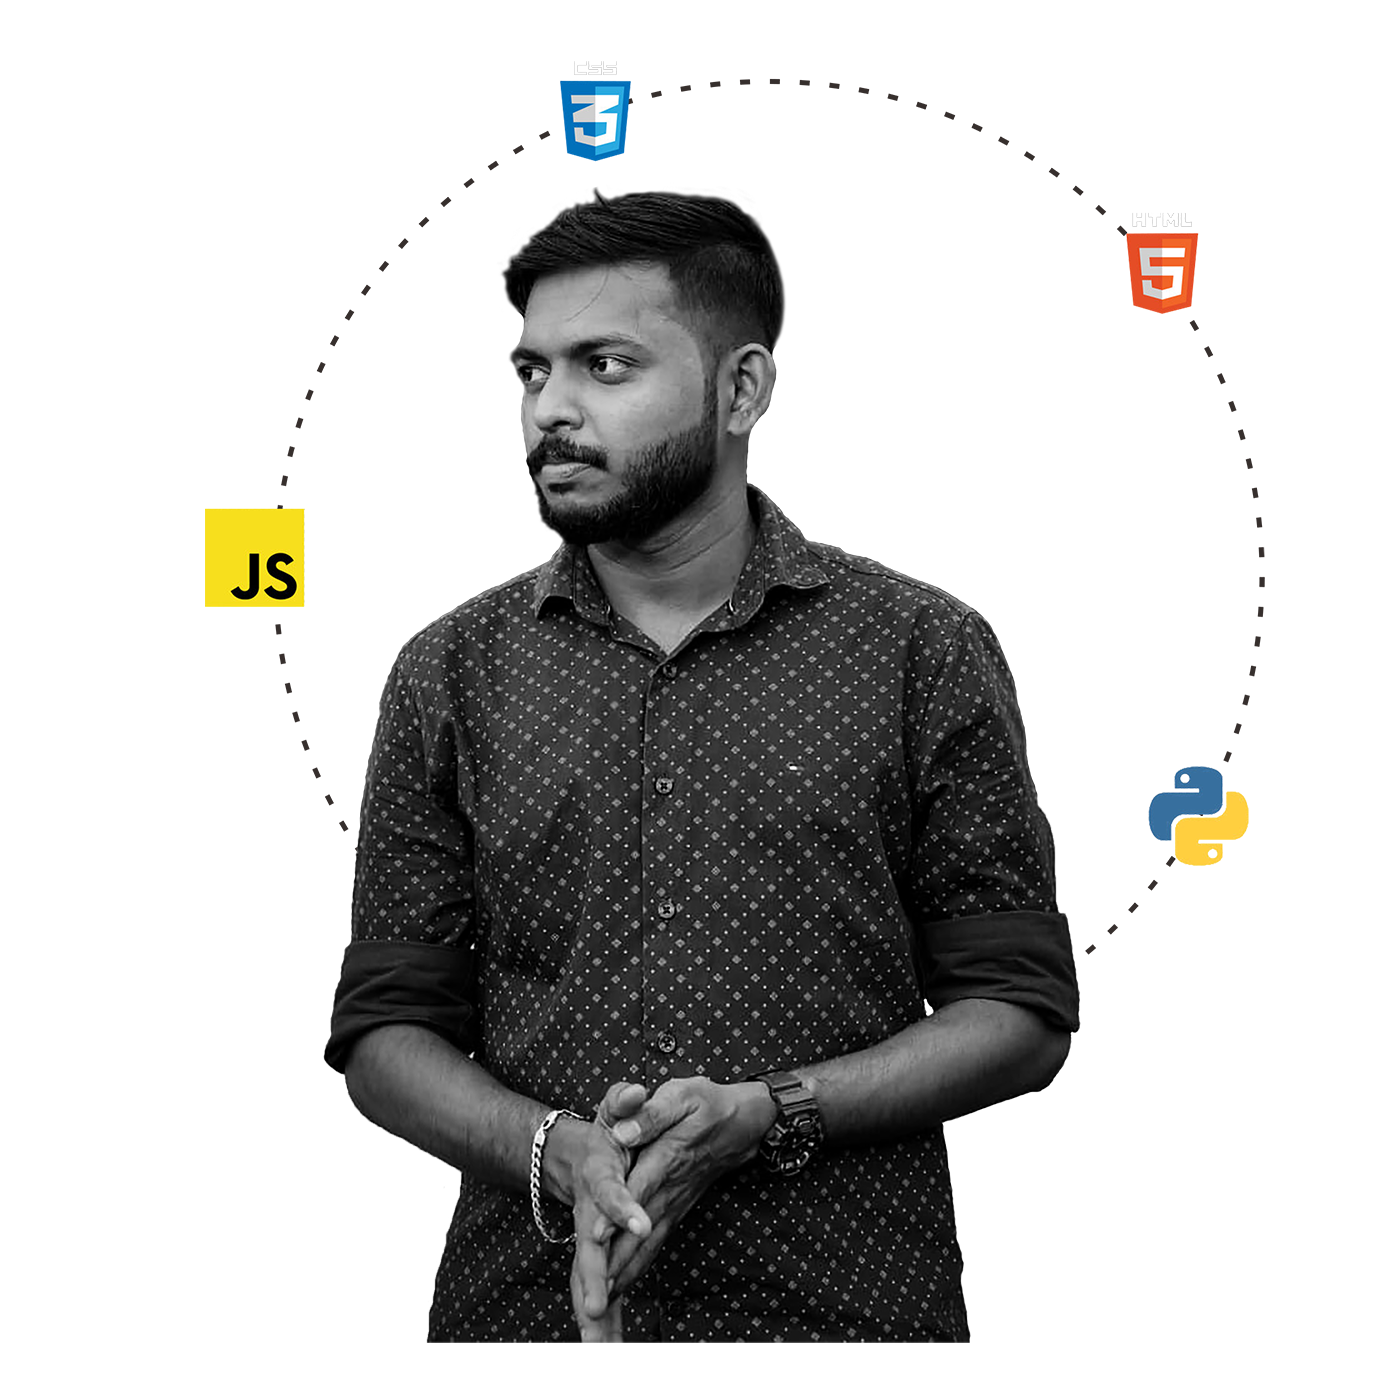
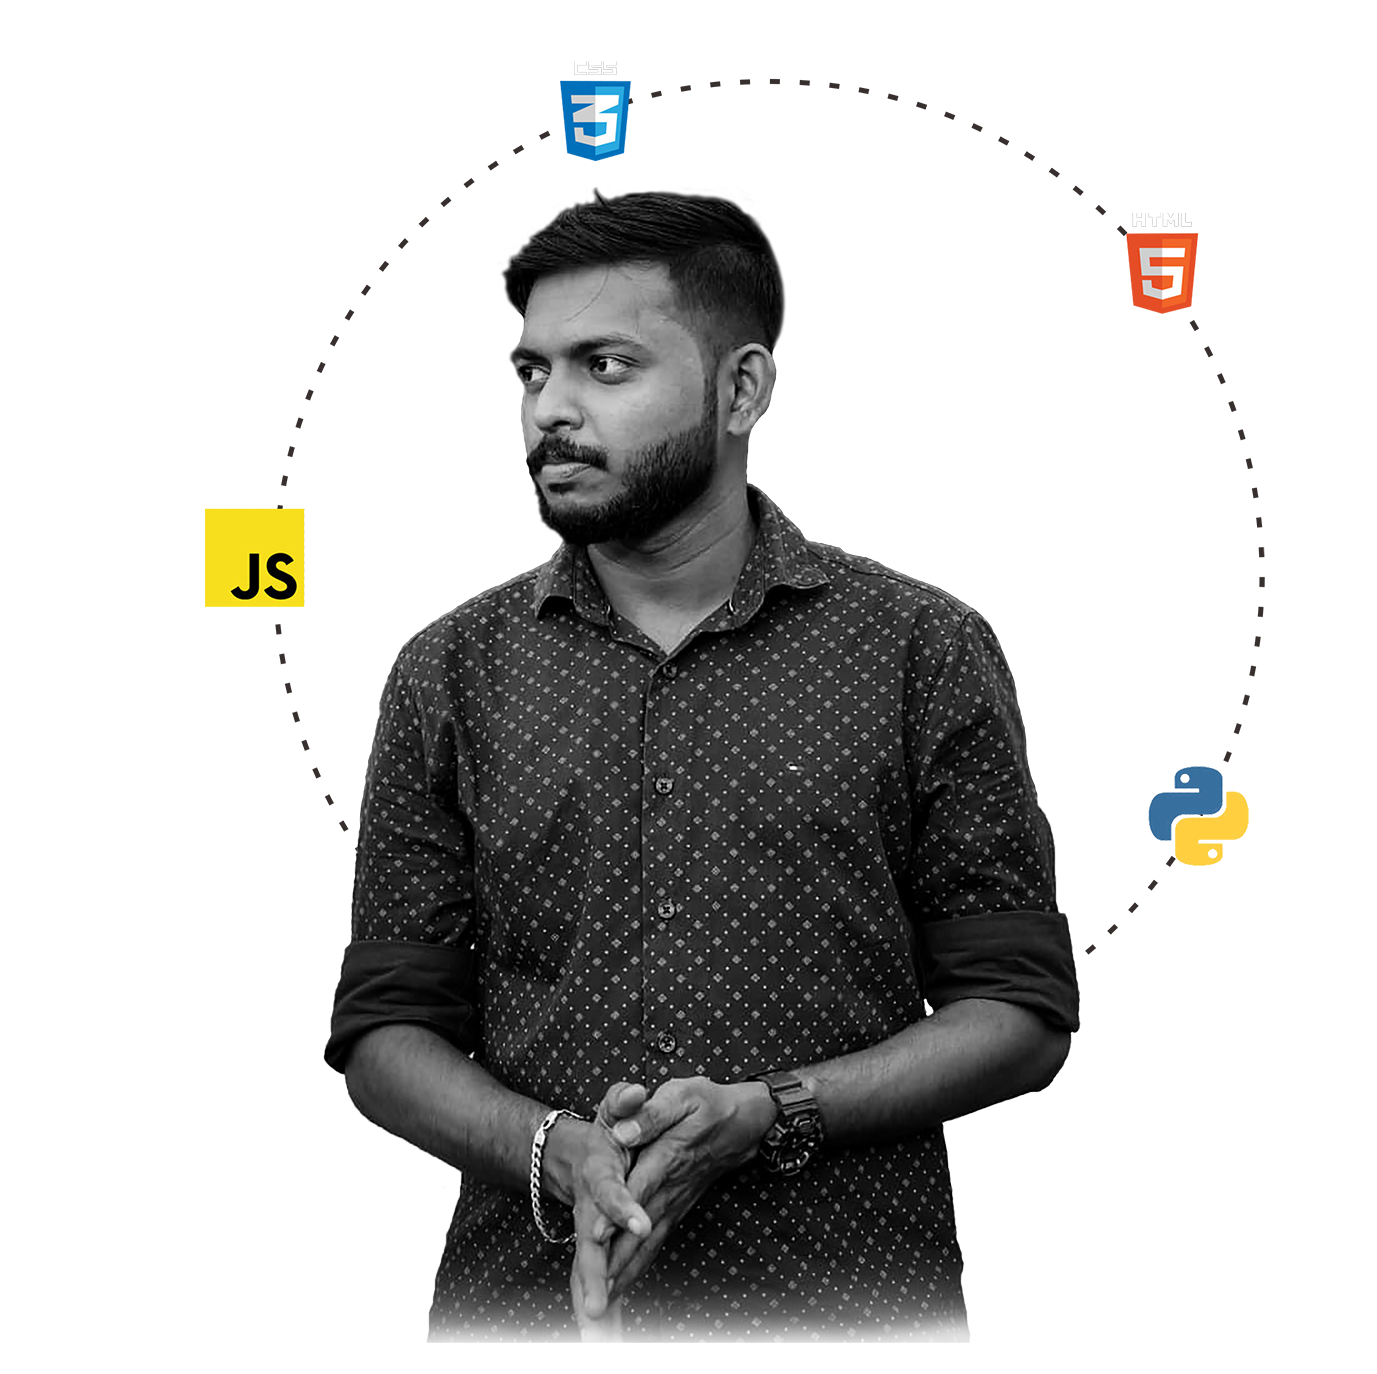
.

Changed region(s): [[0.3123, 0.917, 0.7182, 0.9782]]

diff --git a/index.html b/index.html
@@ -21,8 +21,8 @@
     <a class="nvname nav-link" href="#">ABHINAND KK</a>
     <div class="collapse navbar-collapse justify-content-end" id="navbarNav">
       <ul class="navbar-nav">
-        <li class="nav-item"><a class="nav-link" href="https://abhinand-devhub.github.io/portfolio/">Home</a></li>
-        <li class="nav-item"><a class="nav-link" href="#">Works</a></li>
+        <li class="nav-item"><a class="nav-link" href="#cont">Home</a></li>
+        <li class="nav-item"><a class="nav-link" href="#cards">Works</a></li>
         <li class="nav-item"><a class="nav-link" href="http://www.linkedin.com/in/abhinand-kk" target="_blank">About</a></li>
         <li class="nav-item"><a class="nav-link" href="https://mail.google.com/mail/?view=cm&fs=1&to=abhinandkk123@gmail.com" target="_blank">Contact</a></li>
       </ul>
@@ -54,7 +54,7 @@
   </div>
 
   <!-- section2 cards -->
-  <div class="container d-flex flex-wrap align-items-center justify-content-between">
+  <div class="container d-flex flex-wrap align-items-center justify-content-between" id="cards">
     <!-- project -->
     <div class="card mb-5" style="width: 350px;  background-color: rgba(0, 0, 0, 0.5);">
       <h3 class="card-title card-img-overlay">Projects</h3>
@@ -69,7 +69,7 @@
           href="https://abhinand-devhub.github.io/portfolio/" target="_blank">Portfolio</a>
       </button>
       <!-- button 3-->
-      <button class="btn text-info"><a class="nav-link text-info" href="########" target="_blank">########</a>
+      <button class="btn text-info"><a class="nav-link text-info" href="" target="_blank">########</a>
       </button>
       <!-- button 4-->
       <button class="btn text-info">- O -</button>
@@ -204,6 +204,11 @@
       </button>
     </div>
   </div>
+
+  <!-- section3 end-section -->
+   <div>
+    
+   </div>
 
 
 

diff --git a/prtflo.css b/prtflo.css
@@ -15,7 +15,7 @@ body{
     margin-bottom: 100px;
     margin-left: 100px;
     margin-right: 100px;
-    background-color: rgba(131, 131, 131, 0.1);
+    background-color: rgba(0, 0, 0, 0.3);
     
 }
 
@@ -44,4 +44,7 @@ body{
 .card-img-overlay {
   pointer-events: none;
   font-family: fantasy;
+}
+html{
+    scroll-behavior: smooth;
 }
